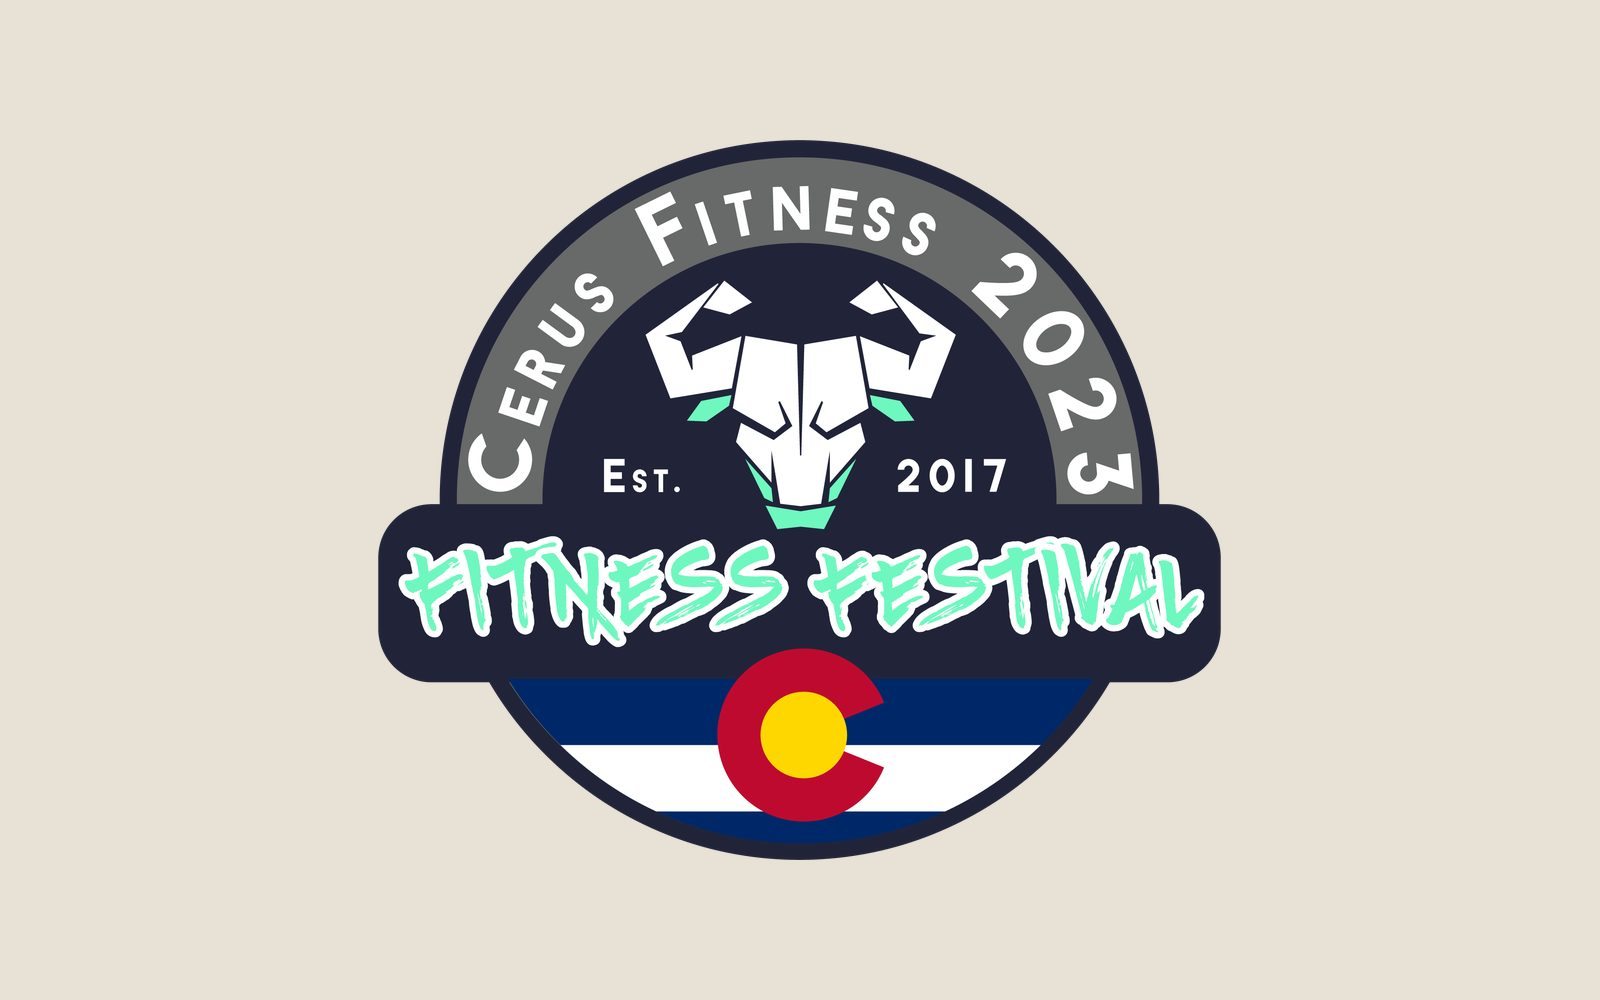
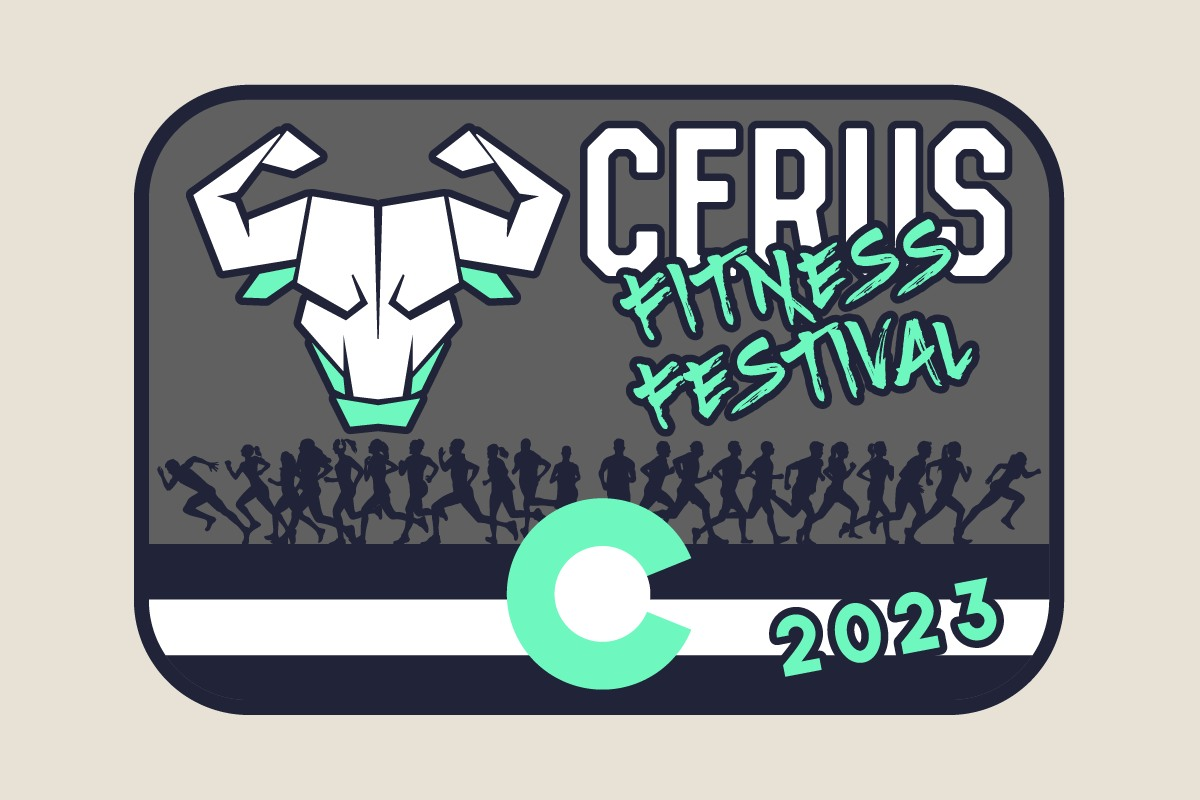
Fitness Festival: swap the medal for the rectangular one that shipped
Replaces the round medal artwork with the rectangular direction, and
adds two photographs of it made: the three finished medals on their
printed lanyards, and the medals worn on the podium.

Also drops the old caption claiming the round direction was the one
that shipped - the photographs show the rectangle is what got made.

diff --git a/src/content/work.ts b/src/content/work.ts
@@ -61,8 +61,19 @@ export const work: Piece[] = [
       },
       {
         src: "/work/cerus-fitness-festival/gallery-4.jpg",
-        alt: "Fitness Festival finisher medal: circular badge with the Cerus bull, brush-script festival wordmark and the Colorado flag",
-        caption: "Finisher medal, round direction — the one that shipped.",
+        alt: "Fitness Festival finisher medal artwork: a rounded rectangular badge with a navy border, the Cerus bull and CERUS in white, FITNESS FESTIVAL in mint brush script, a band of running silhouettes, and the Colorado flag stripe with 2023",
+        caption:
+          "Finisher medal artwork — the rectangular direction, which is the one that got made.",
+      },
+      {
+        src: "/work/cerus-fitness-festival/gallery-7.jpg",
+        alt: "Three finished Fitness Festival medals in enamel, on mint and black printed lanyards, resting against a kettlebell and weight plates",
+        caption: "The finished medals, with the printed lanyards.",
+      },
+      {
+        src: "/work/cerus-fitness-festival/gallery-8.jpg",
+        alt: "Three young runners standing on the podium in front of the sponsor wall, each wearing a Fitness Festival medal on a mint lanyard",
+        caption: "On the podium at the festival, worn.",
       },
       {
         src: "/work/cerus-fitness-festival/gallery-5.jpg",
